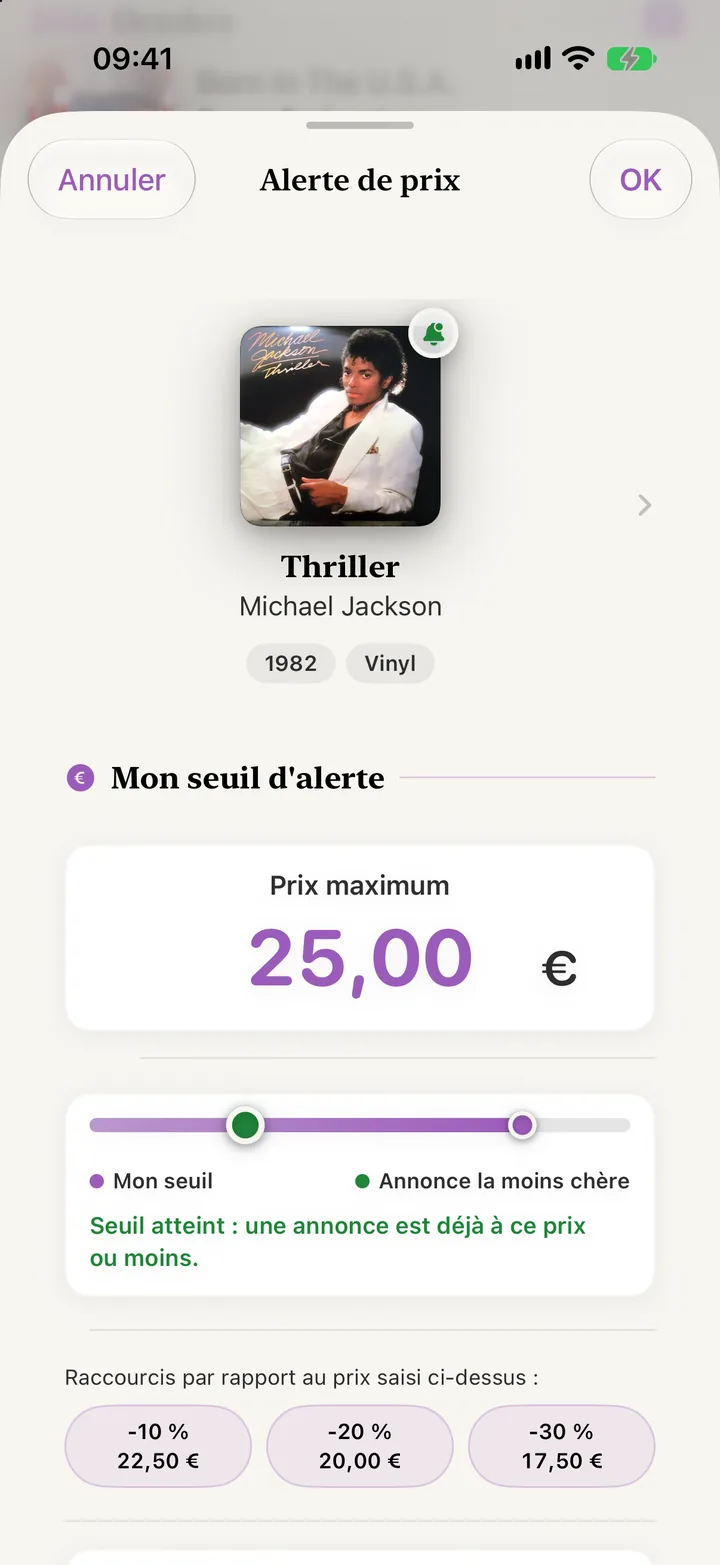
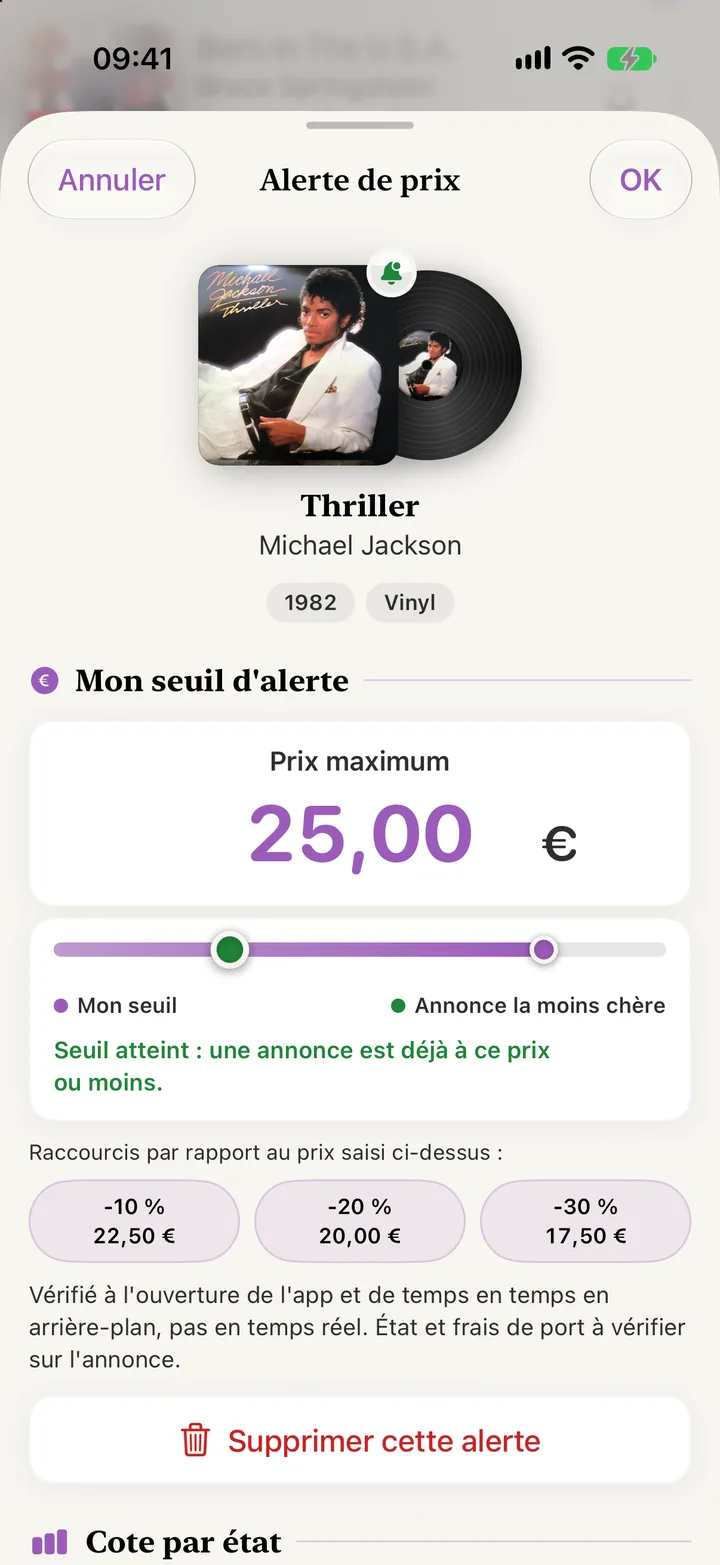
Site : nouvelles captures (fiche, exemplaire, rangement, alerte de prix), manuel à jour

diff --git a/docs/index.html b/docs/index.html
@@ -423,14 +423,15 @@
     <div class="text reveal">
       <span class="eyebrow">Fiche de l'album</span>
       <h2>Chaque album a sa fiche.</h2>
-      <p>Toutes les informations de l'édition viennent de Discogs : titres, crédits, label, pays, année, format et infos de pressage, avec les photos et les vidéos. En haut de la fiche, un résumé de ton exemplaire.</p>
+      <p>Toutes les informations de l'édition viennent de Discogs : titres, crédits, label, pays, année, format et infos de pressage, avec les photos et les vidéos. En haut de la fiche, ton exemplaire ; juste en dessous, « L'album » réunit son rangement, tes écoutes et ta note.</p>
       <ul class="ticks">
         <li>L'édition exacte que tu possèdes, avec ses données Discogs, pas une fiche générique</li>
-        <li>Ton exemplaire en résumé : dossier, tags et plus-value</li>
+        <li>« Mon exemplaire » en tête de fiche : dossier, date d'ajout et plus-value</li>
+        <li>« L'album » en tuiles : où le ranger (Premium), tes écoutes lancées d'un geste et ta note sur 5 étoiles</li>
       </ul>
     </div>
     <div class="shot duo reveal">
-      <div class="phone single" style="--w:236px"><div class="screen"><img src="assets/fiche.webp" alt="Fiche d'un album dans Spinfolio : pochette, exemplaire possédé et emplacement de rangement" width="720" height="1565" loading="lazy"></div></div>
+      <div class="phone single" style="--w:236px"><div class="screen"><img src="assets/fiche.webp" alt="Fiche d'un album dans Spinfolio : pochette, « Mon exemplaire » avec sa plus-value, puis la section « L'album » avec le rangement, les écoutes et la note" width="720" height="1565" loading="lazy"></div></div>
       <div class="phone single" style="--w:236px"><div class="screen"><img src="assets/fiche-edition.webp" alt="Fiche d'un album, informations Discogs de l'édition : note, possesseurs, genres, format, pays, date, labels, photos, vidéos et Marketplace" width="720" height="1565" loading="lazy"></div></div>
     </div>
   </div>
@@ -455,6 +456,7 @@
       <ul class="ticks">
         <li>Journal d'écoute, Live Activity et widget « Album du jour » sur ton écran d'accueil</li>
         <li>Pendant l'écoute, l'album reste visible sur l'écran verrouillé, et l'écoute s'arrête toute seule à la fin</li>
+        <li>Une écoute arrêtée dans les 5 premières secondes n'est pas comptée : un faux départ ne fausse pas ton palmarès</li>
       </ul>
     </div>
     <div class="split">
@@ -580,7 +582,7 @@
         <article class="step" data-shot="histoire">
           <span class="eyebrow">Histoire de l'exemplaire</span>
           <h3>Chaque exemplaire a son histoire.</h3>
-          <p>Renseigne ce qui rend ton exemplaire unique : provenance et lieu d'achat, dédicace, numéro de tirage, prêts, dernier nettoyage, notes personnelles et jusqu'à trois photos. Classe aussi tes albums avec des tags personnalisés. Tout reste privé, dans l'app et ton iCloud ; sans abonnement, tout reste visible en lecture seule.</p>
+          <p>Renseigne ce qui rend ton exemplaire unique : provenance et lieu d'achat, dédicace, numéro de tirage, prêts, dernier nettoyage, notes personnelles et jusqu'à trois photos. Dans la Collection, le filtre « Mon exemplaire » retrouve tes albums prêtés, dédicacés, à remplacer ou d'une même provenance. Classe aussi tes albums avec des tags personnalisés. Tout reste privé, dans l'app et ton iCloud ; sans abonnement, tout reste visible en lecture seule.</p>
           <div class="inline-shot"><div class="phone single"><div class="screen"><img src="assets/exemplaire.webp" alt="Mon exemplaire : histoire de l'exemplaire (provenance, lieu, date d'achat, dédicace, numéro de tirage), suivi (prêt, dernier nettoyage, à remplacer) et photos" width="720" height="1565" loading="lazy"></div></div></div>
         </article>
         <article class="step" data-shot="valeur">
@@ -761,7 +763,7 @@
       </div></details>
       <details><summary>Note<span class="badge acc">Compte Discogs</span></summary><div class="body">
         <p>Note tes albums sur 5 étoiles.</p>
-        <ol><li>Touche les étoiles de « Ma note de la release » pour noter.</li></ol>
+        <ol><li>Sur la fiche, dans « L'album », touche les étoiles de « Ma note ».</li></ol>
         <p class="tip"><strong>Astuce.</strong> La note vaut pour l'album, pas pour un exemplaire : Discogs la partage entre tous tes exemplaires.</p>
       </div></details>
       <details><summary>Mon exemplaire<span class="badge acc">Compte Discogs</span></summary><div class="body">
@@ -770,17 +772,17 @@
       </div></details>
       <details><summary>Prix d'achat et état de l'album<span class="badge acc">Compte Discogs</span></summary><div class="body">
         <p>Note ce que tu as payé et l'état de chaque album.</p>
-        <ol><li>Dans « Mon exemplaire », renseigne le prix et l'état dans « Plus-value de l'exemplaire ».</li><li>Facultatif : dans Réglages &gt; Suivi de plus-value, associe des champs Discogs pour importer tes valeurs existantes ou les y envoyer.</li></ol>
+        <ol><li>Dans « Mon exemplaire », section « Ma plus-value » : touche « Payé » pour saisir le prix, puis choisis l'état du disque.</li><li>Facultatif : dans Réglages &gt; Suivi de plus-value, associe des champs Discogs pour importer tes valeurs existantes ou les y envoyer.</li></ol>
         <p class="tip"><strong>Astuce.</strong> Prix et état restent dans l'app (et sur tes appareils avec iCloud, en Premium). La plus-value (cote moins prix payé) est une fonction Premium, dans Stats.</p>
       </div></details>
       <details><summary>Tags et notes personnelles<span class="badge">Premium</span></summary><div class="body">
         <p>Classe tes albums avec tes propres tags, et garde une note personnelle sur chaque exemplaire.</p>
-        <ol><li>Dans « Mon exemplaire » : crée ou choisis des tags (« Tags de l'exemplaire »), puis écris une note dans « Notes personnelles ».</li><li>Gère les tags dans Réglages (« Gestion des tags »), ou avec « Sélectionner » dans la Collection.</li></ol>
+        <ol><li>Dans « Mon exemplaire », section « Mes tags et notes » : crée ou choisis des tags, puis écris une note.</li><li>Gère les tags dans Réglages (« Gestion des tags »), ou avec « Sélectionner » dans la Collection.</li></ol>
         <p class="tip"><strong>Astuce.</strong> Sans abonnement, tes tags (filtrables) et tes notes restent visibles, mais ne se modifient plus. Ils sont synchronisés par iCloud, pas envoyés à Discogs.</p>
       </div></details>
       <details><summary>Histoire, prêts et photos d'un exemplaire<span class="badge">Premium</span></summary><div class="body">
         <p>Note d'où vient chaque exemplaire, s'il est dédicacé ou numéroté, à qui tu l'as prêté, s'il est à remplacer, et garde jusqu'à 3 photos.</p>
-        <ol><li>Dans « Mon exemplaire » : remplis « Histoire de l'exemplaire » (provenance, date d'achat, dédicace, numéro), puis « Suivi » (prêt, dernier nettoyage des vinyles et écoutes depuis, à remplacer).</li><li>Dans « Photos de l'exemplaire », prends une photo ou choisis-la dans Photos (dédicace, sticker, défaut) ; touche-la pour l'agrandir, maintiens-la pour la supprimer.</li></ol>
+        <ol><li>Dans « Mon exemplaire » : remplis « L'histoire de mon album » (provenance, date d'achat, dédicace, numéro), puis « Mon suivi » (prêt, dernier nettoyage des vinyles et écoutes depuis, à remplacer).</li><li>Dans « Mes photos », prends une photo ou choisis-la dans Photos (dédicace, sticker, défaut) ; touche-la pour l'agrandir, maintiens-la pour la supprimer.</li></ol>
         <p class="tip"><strong>Astuce.</strong> Les albums prêtés, dédicacés ou à remplacer se filtrent dans la Collection (« Mon exemplaire »). Sans abonnement, tout reste visible mais ne se modifie plus. Synchronisé par iCloud, jamais envoyé à Discogs.</p>
       </div></details>
     </div>
@@ -809,7 +811,7 @@
     <div class="manual-group reveal"><h3>Écoute sur platine</h3>
       <details><summary>Noter une écoute</summary><div class="body">
         <p>Touche « J'écoute » quand tu poses un album sur ta platine.</p>
-        <ol><li>Sur la fiche d'un album, ou en glissant une ligne de la Collection : « J'écoute ».</li><li>Un mini-lecteur apparaît ; touche-le pour ouvrir « Écoute sur platine » et arrêter.</li></ol>
+        <ol><li>Sur la fiche d'un album, touche la tuile « Mes écoutes » ; ou glisse une ligne de la Collection et touche « J'écoute ».</li><li>Un mini-lecteur apparaît ; touche-le pour ouvrir « Écoute sur platine » et arrêter.</li></ol>
         <p class="tip"><strong>Astuce.</strong> Lancer une nouvelle écoute interrompt celle en cours. La fiche compte tes écoutes et garde la date de la dernière.</p>
       </div></details>
       <details><summary>Live Activity et arrêt automatique</summary><div class="body">
@@ -830,7 +832,7 @@
     <div class="manual-group reveal"><h3>Rangement</h3>
       <details><summary>Où ranger un album<span class="badge">Premium</span></summary><div class="body">
         <p>Le guide te donne sa position dans le meuble, entre ses deux voisins.</p>
-        <ol><li>Glisse une ligne de la Collection et touche « Ranger », ou ouvre « Rangement physique » sur la fiche.</li><li>Repère l'album central et ses deux voisins : c'est entre eux qu'il va.</li></ol>
+        <ol><li>Glisse une ligne de la Collection et touche « Ranger », ou touche la tuile « Rangement » sur la fiche.</li><li>Repère l'album central et ses deux voisins : c'est entre eux qu'il va.</li></ol>
         <p class="tip"><strong>Astuce.</strong> Fonction Premium. Le guide s'ouvre aussi juste après l'ajout d'un album à la collection.</p>
       </div></details>
       <details><summary>Ta méthode de classement</summary><div class="body">
@@ -857,7 +859,7 @@
       </div></details>
       <details><summary>Choisir le bon seuil<span class="badge">Premium</span></summary><div class="body">
         <p>La feuille montre la cote récente par état, pour viser juste.</p>
-        <ol><li>Touche un état dans « Cote moyenne récente par état » : sa cote devient ton prix cible.</li><li>Ajuste avec les raccourcis −10 %, −20 % ou −30 %.</li></ol>
+        <ol><li>Touche un état dans « Cote par état » : sa cote devient ton prix cible.</li><li>Ajuste avec les raccourcis −10 %, −20 % ou −30 %.</li></ol>
       </div></details>
       <details><summary>Quand l'alerte se déclenche<span class="badge">Premium</span></summary><div class="body">
         <p>Tu es prévenu dès qu'une annonce est à ton prix ou moins.</p>
